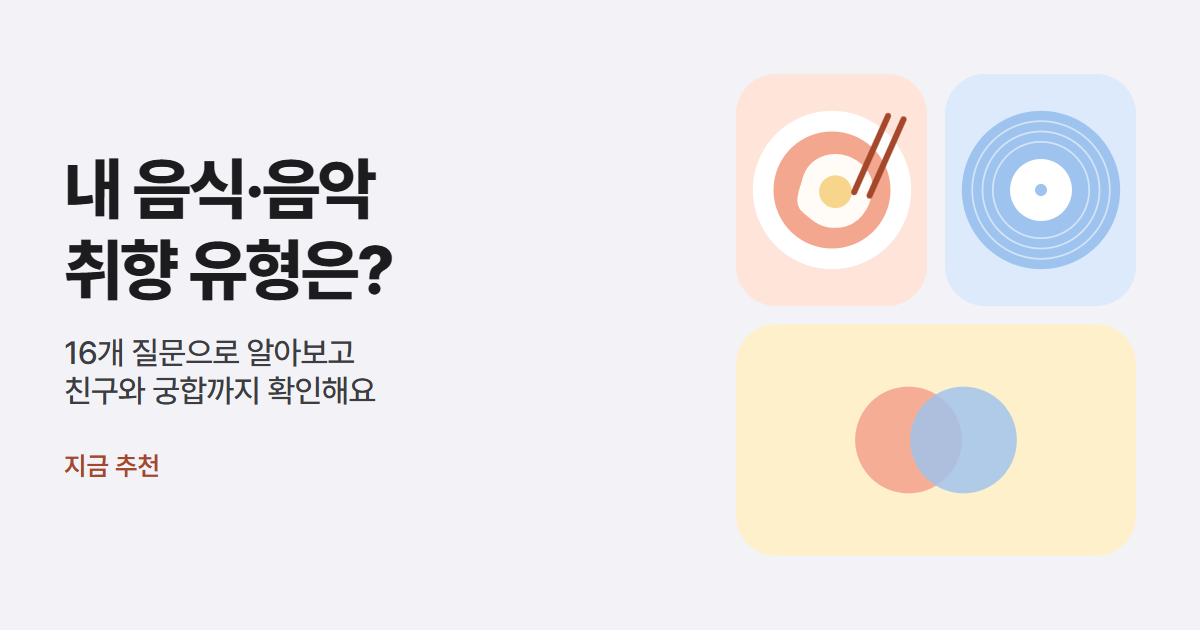
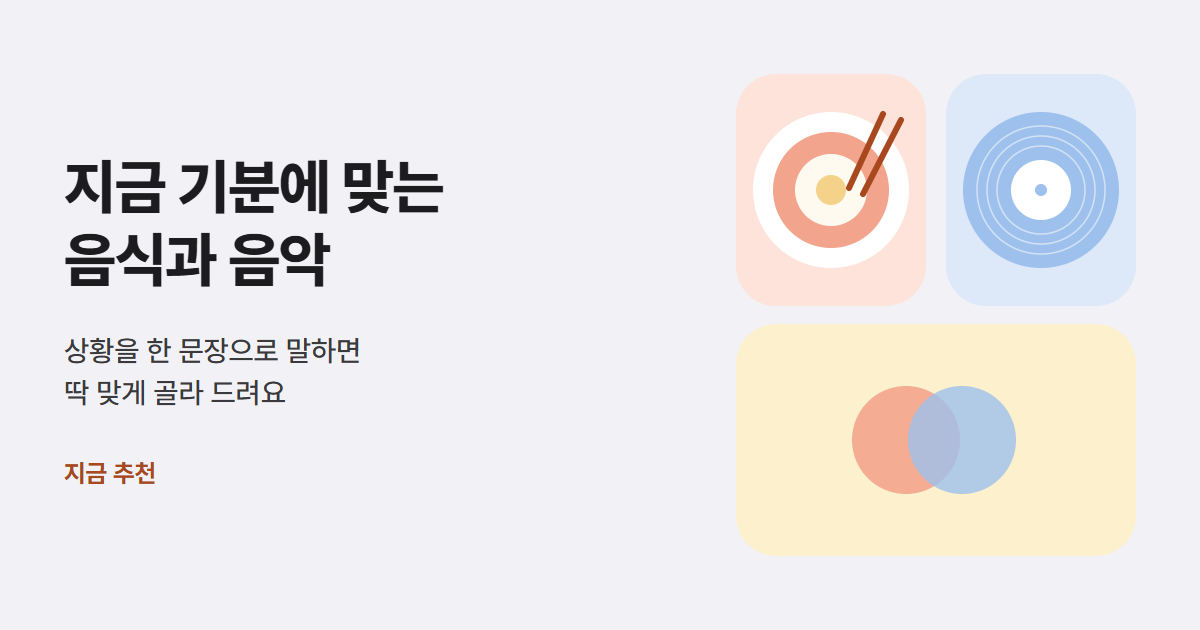
Link preview about the service, admin console fetched on demand, 720px photo copies
- og:title/description and public/og.png say what the service does, not only the type test (scripts/make-og.cjs draws it)
- The admin console is a lazy chunk: the first visit takes 232 kB of script instead of 252 (gzip), 19.9 kB of CSS
  instead of 23.2. A tab left open over a release reloads once when an on-demand file is gone (vite:preloadError).
- Food photos get a 720 px copy (public/food/mid, make-tiles.cjs); cards and the big picture offer it in srcset, so a
  phone at 2x loads ~84 kB instead of ~150 kB a photo. Thumbnails (34-72 px) take the 420 px tile, not the 960 photo.
- DEPLOY.md: the admin-console (00038-c6m, DB 0014) and review-fixes (00039-n8z) deploys.

diff --git a/src/components/ItemArt.tsx b/src/components/ItemArt.tsx
@@ -1,9 +1,16 @@
 import { useEffect, useRef, useState } from 'react';
 import { Music2, Utensils } from 'lucide-react';
 import type { Category } from '../data';
-import { mediaOf, tileImage } from '../media';
+import { midImage, mediaOf, tileImage } from '../media';
 
 type Art = { id?: string; parentId?: string; category: Category; name: string; subtitle?: string };
+
+/** How wide a card and the big picture are drawn (measured 2026-11-26: food cards 335 CSS px at 375, 354 at 768, 387 at
+ *  1440), so the browser can choose between the 720 and 960 pixel copies before layout. */
+const SIZES: Record<'card' | 'hero', string> = {
+  card: '(max-width: 720px) calc(100vw - 40px), 390px',
+  hero: '(max-width: 720px) calc(100vw - 40px), 560px',
+};
 
 /** Photo or album cover of an item. With no image, or a failed one, it is a plain tile with the category's icon: a song we
  * could not confirm must not look like a real album. While a picture loads the same tinted tile stands in, and the picture
@@ -14,14 +21,18 @@ export function ItemArt({ item, size = 'card', label, className = '', eager = fa
   const [failed, setFailed] = useState('');
   const [loaded, setLoaded] = useState('');
   const img = useRef<HTMLImageElement>(null);
-  const picture = media && (size === 'tile' ? tileImage(media.image) : media.image);
+  // A thumbnail (34-72 CSS pixels) and a tile take the small copy; a card or the big picture offer the 720 copy beside
+  // the full one and let the browser pick by its width and screen density (SIZES).
+  const small = size === 'tile' || size === 'thumb';
+  const picture = media && (small ? tileImage(media.image) : media.image);
   const image = picture && failed !== picture ? picture : '';
+  const mid = image && !small ? midImage(image) : undefined;
   // A picture already in the browser's cache can be complete before the load handler is attached.
   useEffect(() => { if (image && img.current?.complete && img.current.naturalWidth > 0) setLoaded(image); }, [image]);
   const ready = !!image && loaded === image;
   return <span className={`item-art ${item.category} ${size} ${image ? 'has-image' : 'generated'}${ready ? ' loaded' : ''} ${className}`}
     role={label ? 'img' : undefined} aria-label={label} aria-hidden={label ? undefined : true}>
     {!ready && <span className="art-empty">{item.category === 'food' ? <Utensils size={22} /> : <Music2 size={22} />}</span>}
-    {image && <img ref={img} src={image} alt="" loading={eager ? 'eager' : 'lazy'} fetchPriority={eager ? 'high' : 'auto'} decoding="async" referrerPolicy="no-referrer" onLoad={() => setLoaded(image)} onError={() => setFailed(image)} />}
+    {image && <img ref={img} src={image} srcSet={mid ? `${mid} 720w, ${image} 960w` : undefined} sizes={mid ? SIZES[size as keyof typeof SIZES] : undefined} alt="" loading={eager ? 'eager' : 'lazy'} fetchPriority={eager ? 'high' : 'auto'} decoding="async" referrerPolicy="no-referrer" onLoad={() => setLoaded(image)} onError={() => setFailed(image)} />}
   </span>;
 }

diff --git a/tests/built/built-site.spec.ts b/tests/built/built-site.spec.ts
@@ -125,13 +125,13 @@ test('the security policy lets Apple Music\'s player into a frame, and no other 
   expect(asked.filter(url => /frames\.example/.test(url))).toEqual([]);
 });
 
-test('every food photo the table names is shipped with its small copy, and none loads from Unsplash', async ({ page, request }) => {
+test('every food photo the table names is shipped with its smaller copies, and none loads from Unsplash', async ({ page, request }) => {
   const media = JSON.parse(readFileSync(new URL('../../src/media.json', import.meta.url), 'utf8')) as Record<string, { image: string; source: string; credit?: { author: string; page: string } }>;
   const entries = Object.entries(media), saved = entries.filter(([, entry]) => !/^https:\/\//.test(entry.image));
   expect(saved.length).toBeGreaterThan(60);
   for (const [id, entry] of saved) {
     expect(entry.image, id).toBe(`food/${id}.jpg`);
-    for (const path of [`/food/${id}.jpg`, `/food/tile/${id}.jpg`]) {  // the tile: `node scripts/make-tiles.cjs`
+    for (const path of [`/food/${id}.jpg`, `/food/tile/${id}.jpg`, `/food/mid/${id}.jpg`]) {  // the copies: `node scripts/make-tiles.cjs`
       const answer = await request.get(path);
       expect(answer.status(), path).toBe(200);
       expect(answer.headers()['content-type'], path).toBe('image/jpeg');  // not the app's page, served for an address that is not there
@@ -141,6 +141,7 @@ test('every food photo the table names is shipped with its small copy, and none 
   const named = saved.map(([id]) => `${id}.jpg`).sort(), folder = new URL('../../public/food/', import.meta.url);
   expect(readdirSync(folder).filter(name => name.endsWith('.jpg')).sort()).toEqual(named);
   expect(readdirSync(new URL('tile/', folder)).sort()).toEqual(named);
+  expect(readdirSync(new URL('mid/', folder)).sort()).toEqual(named);
   // The Unsplash photos moved into the site and still say whose they are.
   const unsplash = entries.filter(([, entry]) => entry.source === 'unsplash');
   expect(unsplash).toHaveLength(38);
@@ -151,7 +152,7 @@ test('every food photo the table names is shipped with its small copy, and none 
   }
   // In the page, under its policy: the small copy is the small size, the photo the full one.
   await page.goto('/');
-  const sizes = await page.evaluate(async () => Promise.all(['food/tile/f01.jpg', 'food/f01.jpg'].map(async path => {
+  const sizes = await page.evaluate(async () => Promise.all(['food/tile/f01.jpg', 'food/mid/f01.jpg', 'food/f01.jpg'].map(async path => {
     const image = new Image(); image.src = new URL(path, document.baseURI).href; await image.decode(); return image.naturalWidth; })));
-  expect(sizes).toEqual([420, 960]);
+  expect(sizes).toEqual([420, 720, 960]);
 });

diff --git a/src/App.tsx b/src/App.tsx
@@ -1,4 +1,4 @@
-import { useEffect, useLayoutEffect, useMemo, useRef, useState, useReducer } from 'react';
+import { lazy, Suspense, useEffect, useLayoutEffect, useMemo, useRef, useState, useReducer } from 'react';
 import { applyAppearance } from './theme';
 import { AppearanceSettings } from './components/AppearanceSettings';
 import { SoundSettings } from './components/SoundSettings';
@@ -39,7 +39,9 @@ import { Favorites } from './components/Favorites';
 import { ItemDetails } from './components/ItemDetails';
 import { ReportDialog } from './components/ReportDialog';
 import { FeedbackDialog } from './components/FeedbackDialog';
-import { AdminConsole } from './components/admin/AdminConsole';
+// The admin console is fetched only when opened (2026-11-26): it is about a tenth of the app's script and only the operator
+// uses it. It needs the network anyway (every panel asks the API), so the service worker keeps it as it is fetched.
+const AdminConsole = lazy(() => import('./components/admin/AdminConsole').then(module => ({ default: module.AdminConsole })));
 import { LearnLoop } from './components/LearnLoop';
 import { countVisit, sendStat } from './api/stats';
 import { TasteReasons } from './components/TasteReasons';
@@ -602,7 +604,7 @@ export default function App() {
   const shownChoices = showAllChoices || query || activeFilter || tasteDecade || selectedOnly ? visibleChoices : visibleChoices.filter((i, n) => n < 24 || draftProfile.selected.includes(i.id));
 
   // The admin console is a screen of its own (2026-11-26): none of the app's bars or menus around it.
-  if (page === 'admin') return <AdminConsole token={account?.token} email={account?.user.email} onExit={() => navigate('taste')} />;
+  if (page === 'admin') return <Suspense fallback={<main className="admin-loading" role="status">관리 화면을 불러오는 중이에요…</main>}><AdminConsole token={account?.token} email={account?.user.email} onExit={() => navigate('taste')} /></Suspense>;
 
   return <div className={`app-shell page-${page}${inFlow ? ' in-flow' : ''} ${page === 'pair' ? ' cat-pair' : page === 'complete' ? ` cat-${completed?.category || category}` : ['recommend', 'onboard'].includes(page) ? ` cat-${category}` : ''}`}>
     <a className="skip-link" href="#main-content" onClick={e=>{e.preventDefault();document.getElementById('main-content')?.focus();}}>본문 바로가기</a>

diff --git a/src/media.test.ts b/src/media.test.ts
@@ -12,7 +12,7 @@ vi.mock('./media.json', () => ({ default: {
   f01: { image: 'https://images.unsplash.com/a.jpg', source: 'unsplash', credit: { author: 'A', license: 'CC0', licenseUrl: '', page: 'https://unsplash.com/photos/x' } },
 } }));
 
-const { tileImage, mediaFor, findSong, youtubeSearch, songLink, overseasLink, mapSearch, recipeSearch } = await import('./media');
+const { tileImage, midImage, mediaFor, findSong, youtubeSearch, songLink, overseasLink, mapSearch, recipeSearch } = await import('./media');
 const { items } = await import('./data');
 
 describe('item media', () => {
@@ -32,6 +32,13 @@ describe('item media', () => {
     expect(tileImage('/food/f02.jpg')).toBe('/food/tile/f02.jpg');
     expect(tileImage('/NowRecommend/food/f-kimbap.jpg')).toBe('/NowRecommend/food/tile/f-kimbap.jpg');  // under a base path
     expect(tileImage('https://upload.example.test/food/a.jpg')).toBe('https://upload.example.test/food/a.jpg');  // someone else's address is not ours to rewrite
+  });
+  it('offers a 720 pixel copy only where one exists', () => {
+    expect(midImage('/food/f02.jpg')).toBe('/food/mid/f02.jpg');
+    expect(midImage('/NowRecommend/food/f-kimbap.jpg')).toBe('/NowRecommend/food/mid/f-kimbap.jpg');
+    expect(midImage('https://images.unsplash.com/a?w=960&h=960&fit=crop')).toBe('https://images.unsplash.com/a?w=720&h=720&fit=crop');
+    expect(midImage('https://is1.mzstatic.com/x/600x600bb.jpg')).toBeUndefined();  // an album cover is 600 already
+    expect(midImage('https://upload.example.test/food/a.jpg')).toBeUndefined();
   });
 
   it('finds a free-form song in the catalog regardless of case and spacing', () => {

diff --git a/src/main.tsx b/src/main.tsx
@@ -6,6 +6,18 @@ import { ErrorBoundary } from './components/ErrorBoundary';
 import { installErrorReporting } from './errors';
 import './styles.css';
 installErrorReporting();
+// A screen fetched on demand (the admin console) can be gone after a release: an open tab still asks for the old file,
+// which the host no longer has. Load the page once more to get the new release; once only, so an offline tab or a file
+// that keeps failing ends at the error screen instead of reloading forever (2026-11-26).
+window.addEventListener('vite:preloadError', event => {
+  try {
+    const last = Number(sessionStorage.getItem('nowrecommend-chunk-reload') || 0);
+    if (!navigator.onLine || Date.now() - last < 60_000) return;
+    sessionStorage.setItem('nowrecommend-chunk-reload', String(Date.now()));
+  } catch { return; }
+  event.preventDefault();
+  window.location.reload();
+});
 // Shown inside another site's frame, the app does not draw itself (2026-11-23): a static host cannot send
 // frame-ancestors, and a framed page could be dressed up to make someone press its buttons. A link opens it on its own.
 const framed = (() => { try { return window.top !== window.self; } catch { return true; } })();

diff --git a/src/media.ts b/src/media.ts
@@ -24,6 +24,15 @@ export const tileImage = (url: string) => /^https:\/\//.test(url)
   ? url.replace('w=960&h=960', 'w=420&h=420').replace('/600x600bb', '/300x300bb')
   : url.replace(/(^|\/)food\/([\w-]+\.jpg)$/, '$1food/tile/$2');
 
+/** The same picture at 720 pixels, for `srcset` beside the 960 pixel one (2026-11-26): the result cards are 335-390 CSS
+ *  pixels wide, so a phone at 2x is served by it. Only where a 720 copy exists: a photo saved with the site (public/food/mid,
+ *  scripts/make-tiles.cjs) or a picture host that resizes on request; anything else has none (undefined). */
+export const midImage = (url: string): string | undefined => {
+  if (/^https:\/\//.test(url)) return url.includes('w=960&h=960') ? url.replace('w=960&h=960', 'w=720&h=720') : undefined;
+  const mid = url.replace(/(^|\/)food\/([\w-]+\.jpg)$/, '$1food/mid/$2');
+  return mid === url ? undefined : mid;
+};
+
 /** Covers still marked for a person to confirm (`check`) are not shown. A photo saved with the site is served from its base path. */
 export function mediaFor(id: string): Media | undefined {
   const entry: Entry | undefined = table[id] || found.get(id);

diff --git a/index.html b/index.html
@@ -18,8 +18,8 @@
     <script>try{const a=JSON.parse(localStorage.getItem('nowrecommend-prototype-v1')||'null')?.appearance;const dark=a?.mode==='dark'||a?.mode==='system'&&matchMedia('(prefers-color-scheme:dark)').matches;document.documentElement.dataset.theme=dark?'dark':'light';document.querySelector('meta[name="theme-color"]').content=dark?'#000000':'#f2f2f7';}catch{}</script>
     <meta property="og:type" content="website" />
     <meta property="og:site_name" content="지금 추천" />
-    <meta property="og:title" content="내 음식·음악 취향 유형은?" />
-    <meta property="og:description" content="문장 24개로 알아보고 친구와 궁합까지 확인해요." />
+    <meta property="og:title" content="지금 추천 — 지금 기분에 맞는 음식과 음악" />
+    <meta property="og:description" content="상황을 한 문장으로 말하면 음식과 음악을 골라 드려요. 내 취향 유형과 친구 궁합도 알아봐요." />
     <meta property="og:url" content="__PUBLIC_URL__" />
     <meta property="og:image" content="__PUBLIC_URL__og.png" />
     <meta property="og:image:width" content="1200" />

diff --git a/src/styles.css b/src/styles.css
@@ -854,6 +854,7 @@ main:has(.why[open]) .check-legend .when-open { display: inline; }
 .crash-screen { max-width: 520px; margin: 0 auto; padding: 96px 24px; }
 .crash-screen h1 { font-size: 26px; }
 .crash-screen p { margin-top: 12px; color: var(--text-muted); line-height: 1.6; }
+.admin-loading { max-width: 520px; margin: 0 auto; padding: 96px 24px; color: var(--text-muted); }
 .crash-actions { display: flex; flex-wrap: wrap; gap: 12px; margin-top: 28px; }
 .send-note a { text-decoration: underline; text-underline-offset: 3px; }
 .legal-page { max-width: 720px; margin: 0 auto; padding: 8px 0 48px; }

diff --git a/DEPLOY.md b/DEPLOY.md
@@ -4,7 +4,9 @@
 
 - 사이트: <https://nowrec.kr/> (2026-11-17부터. 이전 주소 <https://ow-wl.github.io/NowRecommend/>와 `www.nowrec.kr`은 이 주소로 넘어옵니다)
 - API: <https://nowrecommend-api-183982128363.asia-northeast3.run.app> (`/api/health`로 상태 확인)
-- **운영 중(2026-11-25 02:00쯤 KST, 접속 기록·관리 대시보드·유형 도감·보안 보강 배포 뒤)**: API 이미지 `api:78df300`, 리비전 `nowrecommend-api-00037-jmz`(설정은 00036-lnp와 같음), DB **`0013`**(`access_log` 표, `recommendation_logs.created_at` 인덱스), 작업 4개도 `api:78df300`, 화면 `main` = `78df300`. 바뀐 점: 방문·가입·로그인·추천 요청의 IP·시각을 `access_log`에 30일 보관(계정과 연결 안 함), 관리 화면 "접속 기록" 탭과 통계 탭 "자세히 보기"(`/api/admin/insights`, `/api/admin/access`), 유형 16가지 도감, 의견 카드 한 칸, 유형 테스트 터치 hover 수정, 보안: IP당 로그인 실패 시간당 30, 비밀번호 해시 동시 2개(넘치면 503), 확인·재설정 메일 IP당 하루 3·미확인 계정 재설정 하루 1, 이름에 웹 주소 거절·메일에서 이름 뺌, 오류 신고 IP당 20·전체 500. 처리방침은 버전 그대로 "2026-11-24 보완". 배포 전 수동 백업 `1795539437387` "before admin-plus (0013)"은 2026-12-01까지 지웁니다. 되돌리기: `00036-lnp` 이하는 0013을 모르므로 먼저 `nowrecommend-contract` 작업으로 `--downgrade 0012`(접속 기록 표가 지워짐) 뒤 트래픽을 `00036-lnp`로, 화면은 `main`을 `d715c56`로 되돌리는 커밋.
+- **운영 중(2026-11-26 05:00쯤 KST, 리뷰 후속 수정 배포 뒤)**: API 이미지 `api:05c73df`, 리비전 `nowrecommend-api-00039-n8z`(설정은 00038-c6m과 같음), DB `0014` 그대로, 작업 4개도 `api:05c73df`, 화면 `main` = `05c73df`(PR #4). 바뀐 점: 운영 API의 `/docs`·`/redoc`·`/openapi.json`은 `API_DOCS=true`일 때만(지금 404), 로그인 유지 기본 30일→14일(`AUTH_TOKEN_DAYS`, 운영 환경 변수에 따로 값 없음), 로그인 과부하 503 안내 문구, 비밀번호 재설정 뒤 기록 불러오기 실패 안내, 링크 미리보기 설명, 취향 검사 분야별 답변 보존, AI가 이름 붙인 음식의 재료 제외 칩은 "AI 추정". 되돌리기: DB 변경 없음, 트래픽을 `00038-c6m`로, 화면은 `main`을 `d7736a5`로 되돌리는 커밋.
+- **이전(2026-11-26 04:30쯤 KST, 관리 콘솔 배포 뒤)**: API 이미지 `api:e3d2328`, 리비전 `nowrecommend-api-00038-c6m`(설정은 00037-jmz와 같음), DB **`0014`**(회원 이용 제한 `users.suspended_at/reason`, 의견 처리 상태, 관리자 숨김 `items.hidden_at`, 관리자 조치 기록 `admin_audit` 730일), 작업 4개도 `api:e3d2328`, 화면 `main` = `d7736a5`(PR #2). 바뀐 점: `#/admin`이 왼쪽 메뉴·상단 바가 있는 따로 떨어진 관리 콘솔(9구역), 회원 정지·숨김·조치 기록, 처리방침 "2026-11-26 보완". 서버 시작 로그 `migrate: at 0013; upgraded to 0014`. 배포 전 수동 백업 `1795634482756` "before admin-console (0014)"은 2026-12-03까지 지웁니다. PR 검사의 accessibility AbortError는 테스트가 취소된 애니메이션의 `finished`를 기다리다 난 것이라 `aa6ddeb`로 고쳤습니다. 되돌리기: `00037-jmz` 이하는 0014를 모르므로 먼저 `nowrecommend-contract` 작업으로 `--downgrade 0013`(정지·숨김·조치 기록이 지워짐) 뒤 트래픽을 `00037-jmz`로, 화면은 `main`을 `2ffa406`로 되돌리는 커밋.
+- **이전(2026-11-25 02:00쯤 KST, 접속 기록·관리 대시보드·유형 도감·보안 보강 배포 뒤)**: API 이미지 `api:78df300`, 리비전 `nowrecommend-api-00037-jmz`(설정은 00036-lnp와 같음), DB **`0013`**(`access_log` 표, `recommendation_logs.created_at` 인덱스), 작업 4개도 `api:78df300`, 화면 `main` = `78df300`. 바뀐 점: 방문·가입·로그인·추천 요청의 IP·시각을 `access_log`에 30일 보관(계정과 연결 안 함), 관리 화면 "접속 기록" 탭과 통계 탭 "자세히 보기"(`/api/admin/insights`, `/api/admin/access`), 유형 16가지 도감, 의견 카드 한 칸, 유형 테스트 터치 hover 수정, 보안: IP당 로그인 실패 시간당 30, 비밀번호 해시 동시 2개(넘치면 503), 확인·재설정 메일 IP당 하루 3·미확인 계정 재설정 하루 1, 이름에 웹 주소 거절·메일에서 이름 뺌, 오류 신고 IP당 20·전체 500. 처리방침은 버전 그대로 "2026-11-24 보완". 배포 전 수동 백업 `1795539437387` "before admin-plus (0013)"은 2026-12-01까지 지웁니다. 되돌리기: `00036-lnp` 이하는 0013을 모르므로 먼저 `nowrecommend-contract` 작업으로 `--downgrade 0012`(접속 기록 표가 지워짐) 뒤 트래픽을 `00036-lnp`로, 화면은 `main`을 `d715c56`로 되돌리는 커밋.
 - **이전(2026-11-24 오후, 스토어 검색어·히트곡 문구 되돌림 배포 뒤)**: API 이미지 `api:d715c56`, 리비전 `nowrecommend-api-00036-lnp`(설정은 00035-t7t와 같음), DB `0012`, 작업 4개도 `api:d715c56`, 화면 `main` = `d715c56`. 바뀐 점: 스토어 검색어에서 제목 괄호 제거(서버·평가·브라우저), 브라우저는 한자 괄호를 표기로 봄, 음악 프롬프트의 "히트곡만으로 채우지 않기"를 "확실한 곡 먼저"로 되돌림(비슷한 곡 요청에서 스토어에 없는 곡 45~50% → 29%). 되돌리기: DB 변경 없음, 트래픽을 `00035-t7t`로.
 - **이전(2026-11-24, 다크 모드 색 + 음악 비슷한 곡 배포 뒤)**: API 이미지 `api:d37c7f6`, 리비전 `nowrecommend-api-00035-t7t`(설정은 00034-ph8과 같음), DB `0012`, 작업 4개도 `api:d37c7f6`, 화면 `main` = `d37c7f6`. 바뀐 점: 음악 응답에 기준곡(reference)과 기준곡 제외·기준 아티스트 1곡, 히트곡 쏠림 문구, 스토어 정렬 뒤 아티스트 한 곡, 예비곡 채우기, 카드 "이 곡과 비슷한 곡", 다크 모드 틴트. 되돌리기: DB 변경 없음, 트래픽을 `00034-ph8`로(화면은 main을 496177e로).
 - **이전(2026-11-24 새벽, 음악 발매 연도 상한 배포 뒤)**: API 이미지 `api:496177e`, 리비전 `nowrecommend-api-00034-ph8`(설정은 00033-tr5와 같음), DB `0012`, 작업 4개(seed·migrate-plan·contract·admin)도 `api:496177e`, 화면 `main` = `496177e`. 바뀐 점: 발매 연도는 올해(한국 시간)까지만 — 화면은 막고, 서버는 끝 연도를 올해로 줄이고 미래에서 시작하는 범위는 422. 되돌리기: DB 변경 없음, 트래픽을 `00033-tr5`로.
